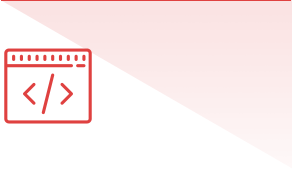
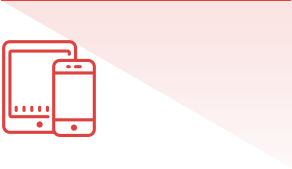
chore(content): Update images

Changed region(s): [[0.0, 0.2367, 0.339, 0.8284]]

diff --git a/_includes/on-demand/carousel.html b/_includes/on-demand/carousel.html
@@ -12,13 +12,13 @@
     "centeredSlidesBounds": true,
     "loop": true,
     "spaceBetween": 35,
-    "slidesPerView": 1.7,
+    "slidesPerView": 4.7,
     "speed": 750
   }'
 >
   <div data-carousel-target="container">
     {% for page in pages %}
-      {% assign image = page.images | where: "type", "desktop" | first %}
+      {% assign image = page.images | where: "type", "mobile" | first %}
       <div data-carousel-target="item" data-randomise-target="item">
         <div class="card-group">
           <div class="card">

diff --git a/_pages/on-demand/ios-native-swift.html b/_pages/on-demand/ios-native-swift.html
@@ -166,8 +166,7 @@ faqs:
       </div>
     </div>
   </div>
-
-  <div class="py-5">{% include on-demand/carousel.html %}</div>
+  <div class="py-5">{% include on-demand/carousel.html slug="swift" %}</div>
 </header>
 
 <section class="default-padding bg-gray-light">
